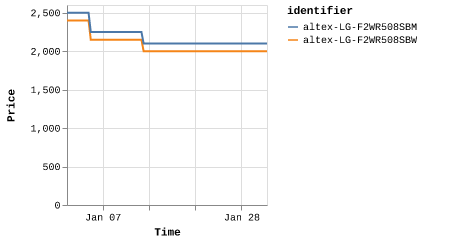
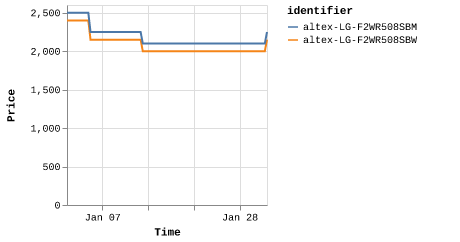
Latest scraping spalat: Thu Feb  1 04:38:16 UTC 2024

diff --git a/scrapes/spalat/altex-LG-F2WR508SBM.md b/scrapes/spalat/altex-LG-F2WR508SBM.md
@@ -1,3 +1,3 @@
-2099
+2249
 
 [Source](https://altex.ro/masina-de-spalat-rufe-frontala-slim-lg-f2wr508sbm-steam-8-kg-1200rpm-clasa-a-negru/cpd/MSFF2WR508SBM/)

diff --git a/scrapes/spalat/altex-LG-F2WR508SBW.md b/scrapes/spalat/altex-LG-F2WR508SBW.md
@@ -1,3 +1,3 @@
-1999
+2149
 
 [Source](https://altex.ro/masina-de-spalat-rufe-frontala-slim-lg-f2wr508sbw-steam-8-kg-1200rpm-clasa-a-alb/cpd/MSFF2WR508SBW/)
